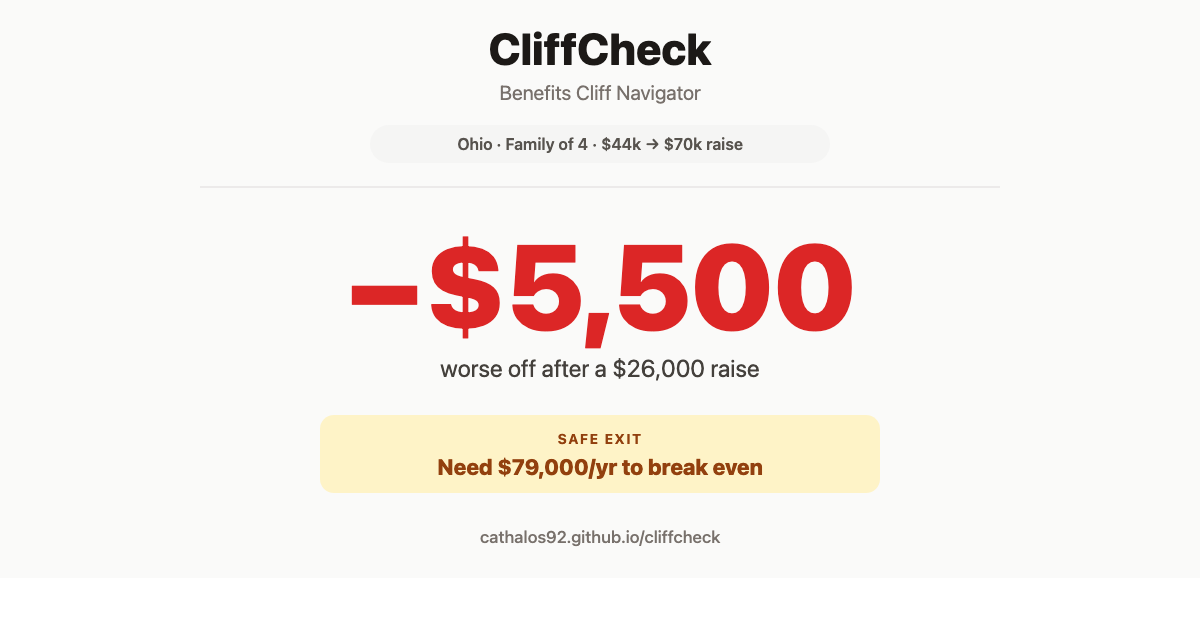
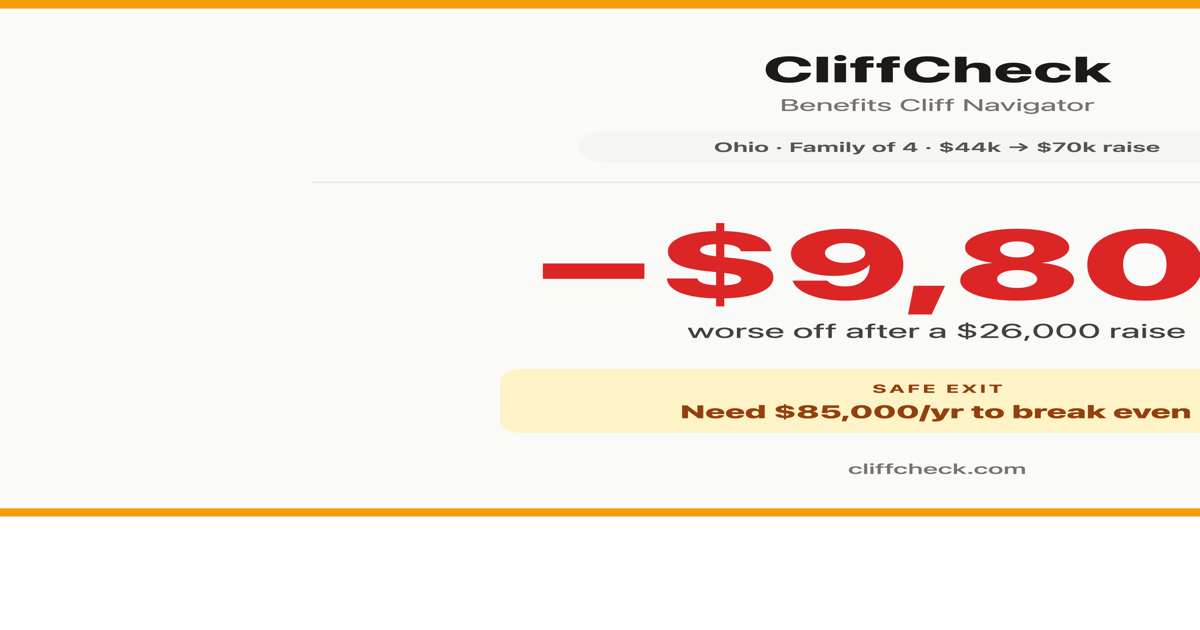
fix: refresh hero stat — $5,500 → $9,800 with EITC modelled
Cycle 10 added federal EITC modelling (task-83), which sharpens the
canonical Ohio demo cliff: a $26k raise now leaves the family ~$9,800
poorer (was ~$5,500 pre-EITC). The previous hero stat understated the
real cliff because it didn't count the EITC phase-out.

Updated:
- og-image.svg + regenerated og-image.png (1200x630)
- og:description + twitter:description meta tags in index.html
- README.md L7 + demo scenario section
- PRODUCT_BRIEF.md demo scenario
- Safe exit number: ~$79k → ~$85k

Cliffcheck.com URL now baked into the OG image (was github.io URL).

🤖 Generated with [Claude Code](https://claude.com/claude-code)

diff --git a/index.html b/index.html
@@ -10,12 +10,12 @@
     <meta property="og:type"        content="website" />
     <meta property="og:url"         content="https://cliffcheck.com/" />
     <meta property="og:title"       content="CliffCheck — Benefits Cliff Navigator" />
-    <meta property="og:description" content="A $26k raise leaves an Ohio family of 4 $5,500 poorer. See the hidden math. Find your safe-exit income." />
+    <meta property="og:description" content="A $26k raise leaves an Ohio family of 4 $9,800 poorer. See the hidden math. Find your safe-exit income." />
     <meta property="og:image"       content="https://cliffcheck.com/og-image.png" />
     <!-- Twitter / X -->
     <meta name="twitter:card"        content="summary_large_image" />
     <meta name="twitter:title"       content="CliffCheck — Benefits Cliff Navigator" />
-    <meta name="twitter:description" content="A $26k raise leaves an Ohio family of 4 $5,500 poorer. See the hidden math. Find your safe-exit income." />
+    <meta name="twitter:description" content="A $26k raise leaves an Ohio family of 4 $9,800 poorer. See the hidden math. Find your safe-exit income." />
     <meta name="twitter:image"       content="https://cliffcheck.com/og-image.png" />
     <script>globalThis.process = { env: { NODE_ENV: "production" } };</script>
     <!-- ── CDN dependencies — pinned versions + Subresource Integrity (SRI) ──

diff --git a/README.md b/README.md
@@ -4,7 +4,7 @@
 
 **Live app:** **https://cliffcheck.com** (phone-first — open on mobile for the intended experience)
 
-A working-class American earning $44k can be offered a $26k raise and end up **$5.5k poorer** in effective take-home — once SNAP, Medicaid, ACA premium tax credits, Section 8, and childcare subsidies phase out together. The math is deliberately hidden by fragmented benefit systems. CliffCheck reveals it.
+A working-class American earning $44k can be offered a $26k raise and end up **$9,800 poorer** in effective take-home — once SNAP, Medicaid, ACA premium tax credits, Section 8, federal EITC, and childcare subsidies phase out together. The math is deliberately hidden by fragmented benefit systems. CliffCheck reveals it.
 
 Built for **VibeJam 2026** (April 20–25, 2026) — VibesOS track.
 
@@ -33,10 +33,10 @@ All calculation runs locally in your browser. **No financial data leaves your de
 
 **Ohio warehouse worker, family of 4, currently earning $44k.** Offered a promotion to $70k.
 
-- **Current** effective take-home: ~$70.6k (wages $44k + SNAP $2.2k + Medicaid proxy $4.5k + PFCC childcare subsidy $19.9k)
-- **After promotion**: ~$65.1k effective — loses SNAP, Medicaid, PFCC childcare; incurs ACA premiums
-- **Net**: $26k raise leaves them **$5.5k worse off**
-- **Safe exit**: ~$79k — first income where effective take-home exceeds current + a $2k buffer
+- **Current** effective take-home: ~$74.9k (wages $44k + SNAP $2.2k + Medicaid proxy $4.5k + PFCC childcare subsidy $19.9k + federal EITC $4.3k)
+- **After promotion**: ~$65.1k effective — loses SNAP, Medicaid, PFCC childcare, and most of the EITC; incurs ACA premiums
+- **Net**: $26k raise leaves them **$9.8k worse off**
+- **Safe exit**: ~$85k — first income where effective take-home exceeds current + a $2k buffer
 
 Open the app, click **"Try the demo"**, watch the chart.
 

diff --git a/PRODUCT_BRIEF.md b/PRODUCT_BRIEF.md
@@ -17,10 +17,10 @@ A phone-first web app that lets users input their family situation and current b
 
 ## Demo Scenario
 **Ohio warehouse worker** — two-adult household, two children, $44k wages. Offered promotion to $70k.
-- Current effective take-home: ~$70.6k (wages $44k + SNAP $2.2k + Medicaid proxy $4.5k + PFCC childcare $19.9k)
-- After promotion: ~$65.1k effective — loses SNAP, Medicaid, PFCC childcare; incurs ACA premiums
-- Net: $26k raise leaves them ~$5.5k worse off in effective take-home
-- Safe exit: ~$79k (first income where effective exceeds current + $2k buffer)
+- Current effective take-home: ~$74.9k (wages $44k + SNAP $2.2k + Medicaid proxy $4.5k + PFCC childcare $19.9k + federal EITC $4.3k)
+- After promotion: ~$65.1k effective — loses SNAP, Medicaid, PFCC childcare, and most of the EITC; incurs ACA premiums
+- Net: $26k raise leaves them ~$9.8k worse off in effective take-home
+- Safe exit: ~$85k (first income where effective exceeds current + $2k buffer)
 - The $44k→$48k range is the sharpest danger zone — PFCC childcare phase-out dominates the cliff shape
 
 ## Target Users